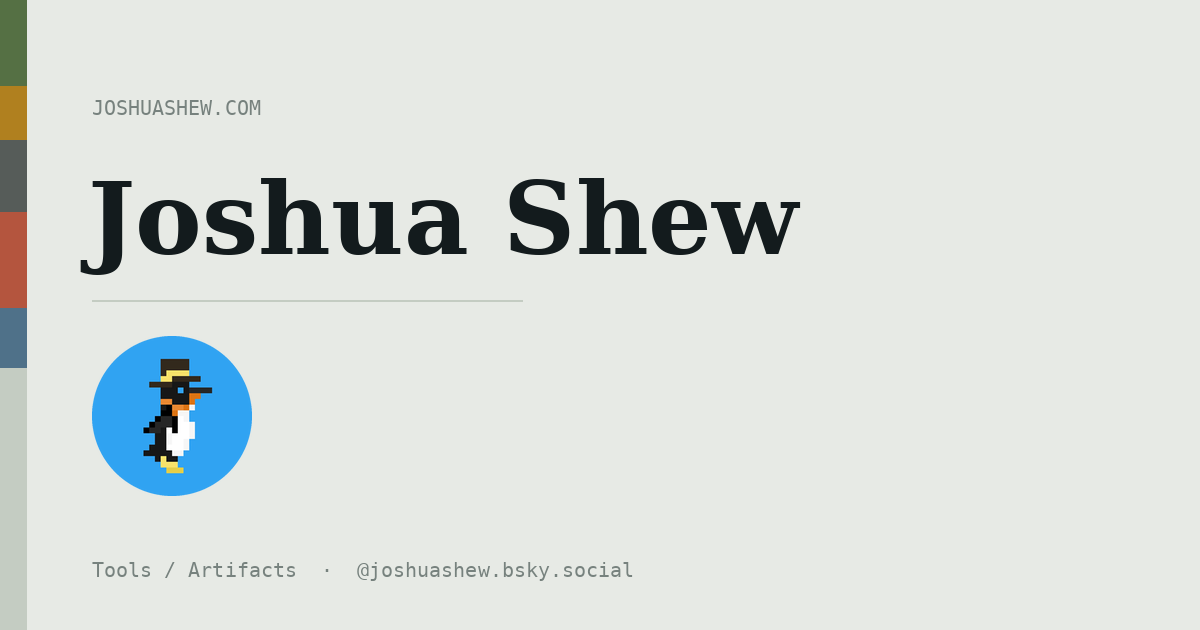
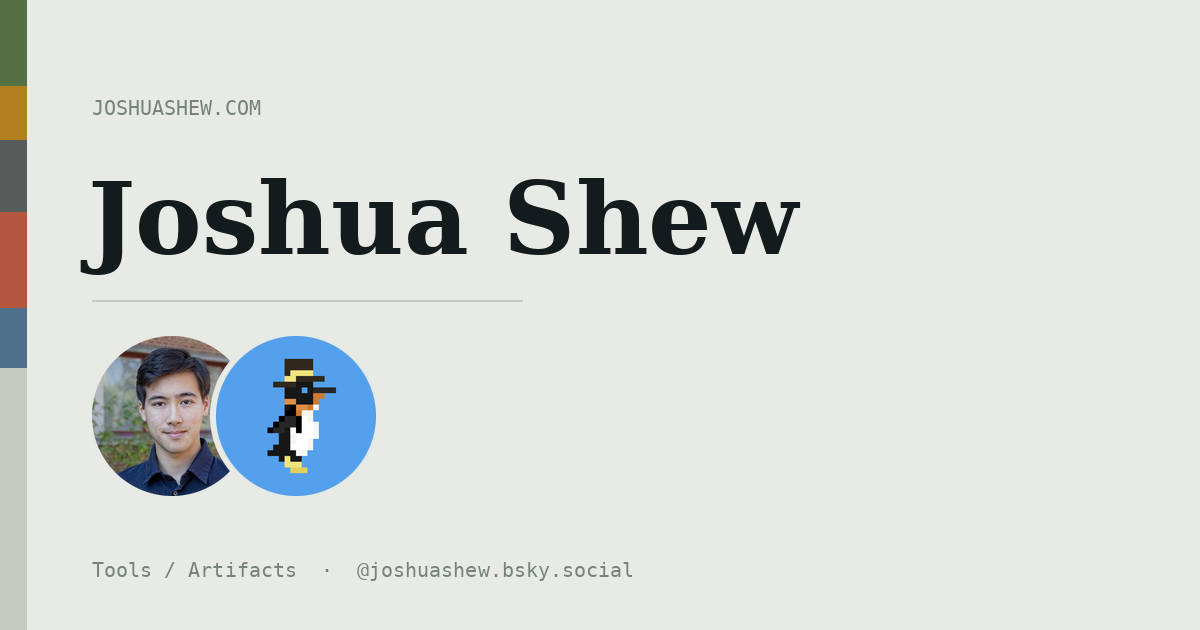
Add the headshot beside the penguin on the home page and its preview card
Uses the full-resolution penguin instead of Bluesky's compressed copy. The
headshot is re-encoded from pixels, so it carries no camera or location data.

Claude-Session: https://claude.ai/code/session_01SS1GHpW7f5sCAxMCqg8b2T

Changed region(s): [[0.0617, 0.5127, 0.3392, 0.7841]]

diff --git a/index.html b/index.html
@@ -88,8 +88,8 @@ h2 a:hover,h2 a:focus-visible{color:var(--brick)}
 <div class="wrap">
   <div class="me">
     <div class="pics" aria-hidden="true">
-      <!--PHOTO-->
-      <img class="peng" src="/avatar-penguin.jpg" alt="" width="60" height="60">
+      <img src="/avatar-photo.jpg" alt="" width="60" height="60">
+      <img class="peng" src="/avatar-penguin.png" alt="" width="60" height="60">
     </div>
     <div>
       <h1>Joshua Shew</h1>

diff --git a/README.md b/README.md
@@ -60,7 +60,8 @@ Pages written by Claude go under `/artifacts/` so the provenance is legible from
 jshoes-tools/
 ├── index.html              # site root
 ├── site-bar.css            # shared navigation bar (see Navigation)
-├── avatar-penguin.jpg      # home-page avatar (Bluesky profile picture)
+├── avatar-photo.jpg        # home-page avatars: headshot and penguin (EXIF stripped)
+├── avatar-penguin.png
 ├── _redirects              # old /transcript/ links → /artifacts/transcript/
 ├── 404.html
 ├── artifacts/
